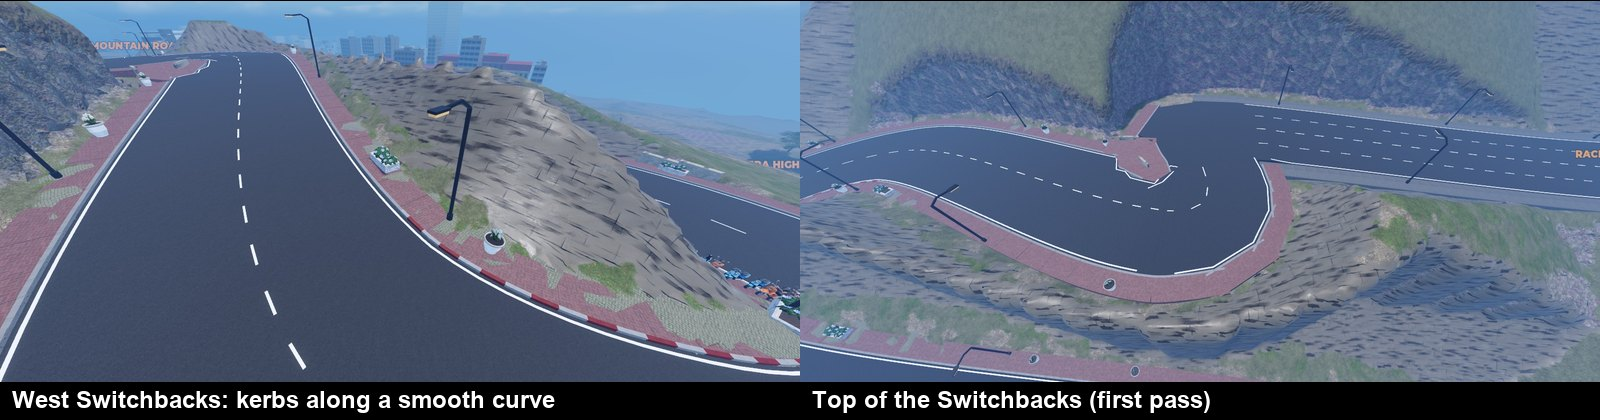
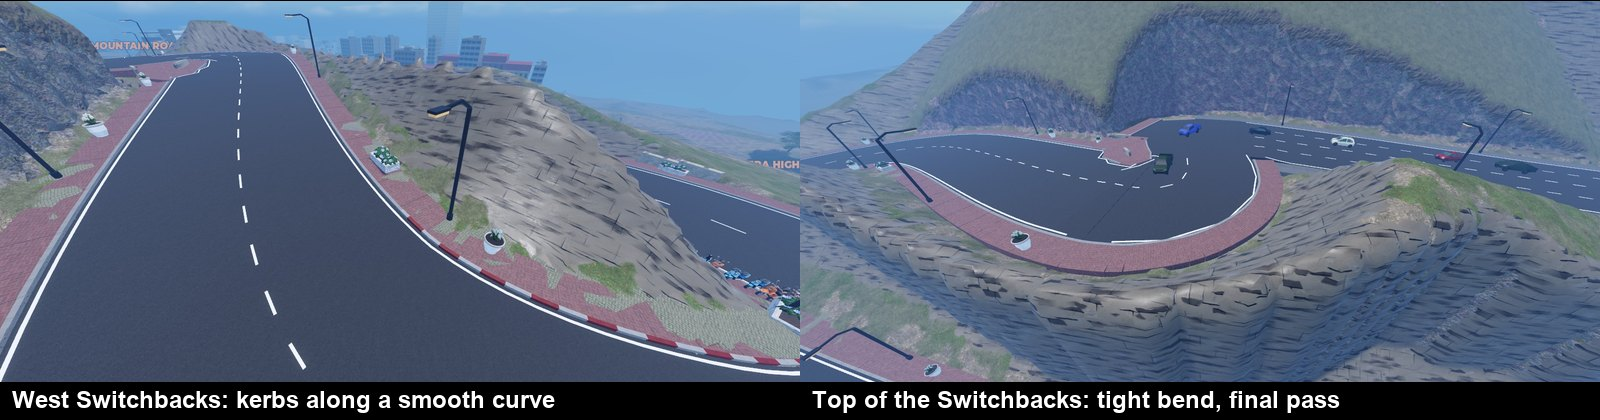
City Legends: notes: bends and FPS checked in Play, what road meshes still need

Changed region(s): [[0.5, 0.0, 1.0, 0.9905]]

diff --git a/City Legends/City Legends.md b/City Legends/City Legends.md
@@ -27,11 +27,13 @@ Owner: "I told you to fix these ... Find all buildings and roads if they have th
 - `tools/riviera/PaveDig.luau`: dug the ground off 191 pavement pieces it stood over.
 - Lane check after it all: 188 lanes, 0 holes, 0 kerbs in a lane, 0 ledges, 163 speed bumps.
 
+**Checked in Play after it all (Studio open):** the tight bend at the top of the Switchbacks is a clean curve. FPS with the HUD on: Coast Road driving 148, Corniche Highway driving 150. Rewards parked 163, Harbour parked 145 (HUD off). 0 to 2 slow frames. These aren't comparable with last night's numbers: the spots and the PC's load differ. They do show the extra parts cost nothing that matters.
+
 **Not done:**
-- FPS not measured: Studio was minimized, and it draws nothing then. Roads have 8,400 more parts (+5%, now 178,000).
-- The second, tighter pass on bends wasn't seen in a picture, for the same reason. Numbers only.
-- Before / after of the worst 10 curves.
-- Real meshes "like in Blender". They would be smoother and take the road's 178,000 parts down a lot, but Studio refused the upload: the folder isn't approved. The owner has to add it: Assistant Settings, MCP Permissions. Then Claude can upload them itself, with no Import 3D.
+- Before / after of the worst 10 curves: the "before" pieces are in the backup, so only "after" shots can be taken without undoing the work.
+- A thin dark crack across the asphalt at that bend (a gap between two road triangles).
+- Real meshes "like in Blender". The owner approved the folder (2026-11-06), but Claude Code's own permission check refused the upload, so the folder approval is untested. A small trial mesh was built and removed. It needs the owner's clear yes to upload, or a permission rule for `open_cloud_invoke`.
+- Plan for the meshes: kerbs and pavements first (they give seamless pavement); the export has to come from the place, because hand fixes aren't in the road data; each drive's gap must be cut out of the mesh; the old parts stay, invisible, for collision. The road surface comes last: only it gives a big FPS gain, and it's the riskiest (hand fixes, patches).
 - `world_test` stops in `GemShowcase` (`part.Position` in Lune). Not from these changes.
 - **Correction:** last night's "worst bends" (no kerbs, blocky edges) were an Edit-mode picture fault: seen in Play, those bends have kerbs and clean edges.
 
